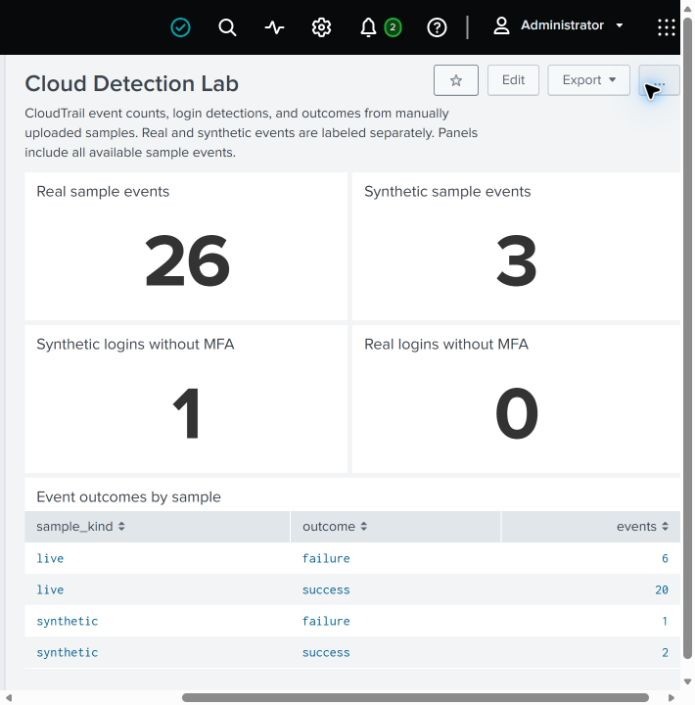
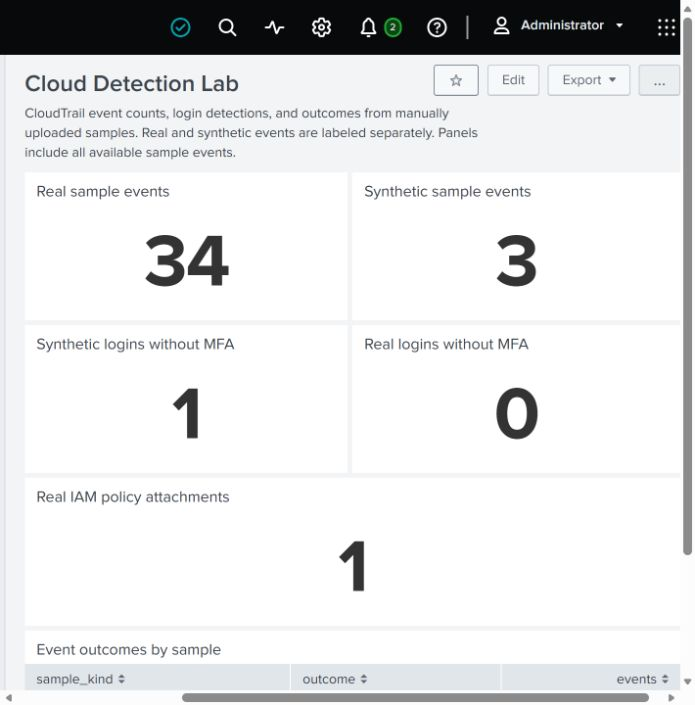
Add controlled IAM policy attachment detection and investigation

diff --git a/tests/test_iam_detection.py b/tests/test_iam_detection.py
@@ -1,0 +1,40 @@
+import copy
+from pathlib import Path
+import unittest
+
+import duckdb
+
+from cloud_detection.pipeline import detect, normalize
+
+
+class IAMDetectionTests(unittest.TestCase):
+    def setUp(self):
+        self.record = {
+            "eventID": "synthetic-policy-attachment", "eventTime": "2026-01-01T12:00:00Z",
+            "eventSource": "iam.amazonaws.com", "eventName": "AttachUserPolicy", "awsRegion": "us-east-1",
+            "userIdentity": {"type": "IAMUser", "accountId": "111122223333", "arn": "arn:aws:iam::111122223333:user/operator"},
+            "requestParameters": {"userName": "test-user", "policyArn": "arn:aws:iam::111122223333:policy/test-policy"},
+            "responseElements": None,
+        }
+
+    def test_null_response_on_successful_iam_write_is_detected(self):
+        finding = detect([normalize(self.record)])[0]
+        self.assertEqual(finding["rule_id"], "iam-managed-policy-attached")
+        self.assertEqual(finding["event_id"], self.record["eventID"])
+        self.assertEqual(finding["principal"], self.record["userIdentity"]["arn"])
+
+    def test_denied_reversal_and_unrelated_service_do_not_match(self):
+        for patch in ({"errorCode": "AccessDenied"}, {"eventName": "DetachUserPolicy"}, {"eventSource": "sts.amazonaws.com"}):
+            with self.subTest(patch=patch):
+                record = copy.deepcopy(self.record)
+                record.update(patch)
+                self.assertEqual(detect([normalize(record)]), [])
+
+    def test_sql_agrees_and_respects_partition_range(self):
+        conn = duckdb.connect()
+        conn.execute("CREATE TABLE security_events(event_id VARCHAR, event_time TIMESTAMP, account_id VARCHAR, principal VARCHAR, source_ip VARCHAR, region VARCHAR, event_date VARCHAR, event_source VARCHAR, event_name VARCHAR, outcome VARCHAR)")
+        conn.execute("INSERT INTO security_events VALUES ('attach', '2026-01-01 12:00:00', '111122223333', 'operator', '192.0.2.1', 'us-east-1', '2026-01-01', 'iam.amazonaws.com', 'AttachUserPolicy', 'success'), ('denied', '2026-01-01 12:00:00', '111122223333', 'operator', '192.0.2.1', 'us-east-1', '2026-01-01', 'iam.amazonaws.com', 'AttachUserPolicy', 'failure')")
+        sql = (Path(__file__).resolve().parents[1] / "sql/detections/iam_managed_policy_attached.sql").read_text()
+        self.assertEqual([row[0] for row in conn.execute(sql, ['2026-01-01', '2026-01-01', 'us-east-1']).fetchall()], ['attach'])
+        self.assertEqual(conn.execute(sql, ['2026-01-02', '2026-01-02', 'us-east-1']).fetchall(), [])
+        conn.close()

diff --git a/cloud_detection/pipeline.py b/cloud_detection/pipeline.py
@@ -73,7 +73,7 @@ def normalize(record: dict) -> dict:
 
 
 def detect(events: list[dict]) -> list[dict]:
-    return [
+    findings = [
         {
             "rule_id": "console-login-without-mfa",
             "event_id": event["event_id"],
@@ -88,3 +88,18 @@ def detect(events: list[dict]) -> list[dict]:
         and event["outcome"] == "success"
         and event["mfa_used"] is False
     ]
+    findings.extend(
+        {
+            "rule_id": "iam-managed-policy-attached",
+            "event_id": event["event_id"],
+            "event_time": event["event_time"],
+            "principal": event["principal"],
+            "source_ip": event["source_ip"],
+            "summary": "Managed IAM policy attached to a user; review the target and permissions in the source event.",
+        }
+        for event in events
+        if event["event_source"] == "iam.amazonaws.com"
+        and event["event_name"] == "AttachUserPolicy"
+        and event["outcome"] == "success"
+    )
+    return findings

diff --git a/README.md b/README.md
@@ -1,10 +1,10 @@
 # Cloud Detection Pipeline
 
-A cloud security data pipeline that collects AWS account activity with CloudTrail, transforms the logs into partitioned Parquet datasets, and detects successful console logins without MFA using SQL and Splunk.
+A cloud security data pipeline that collects AWS account activity with CloudTrail, transforms logs into partitioned Parquet datasets, and detects IAM policy attachments and successful console logins without MFA using SQL and Splunk.
 
 This portfolio project combines real AWS audit logs with labeled synthetic detection tests. Terraform defines the AWS infrastructure, Python validates and transforms the events, and Athena and Splunk query the same normalized data.
 
-The current implementation uses manual sample processing and uploads. CloudTrail collection runs in AWS, transformation runs locally, and Splunk runs on a local installation. A scheduled synthetic alert was verified and then disabled.
+The current implementation uses manual sample processing and uploads. CloudTrail collection runs in AWS, transformation runs locally, and Splunk runs on a local installation. Scheduled alerts were verified for a synthetic login and a real controlled IAM policy change, then disabled after evidence was saved.
 
 ## Tech Stack
 
@@ -71,19 +71,22 @@ The rule is implemented in [Python](cloud_detection/pipeline.py), [Athena SQL](s
 
 The Splunk test alert used an All time search and a temporary one-minute schedule. It added findings to Triggered Alerts without outbound notifications. The schedule fired and was disabled after verification. Its [settings and result](splunk/alerts/synthetic_no_mfa_test.md) are documented separately.
 
+A second rule flags successful `AttachUserPolicy` events from `iam.amazonaws.com`. It was checked against a real, reversible IAM change: a dedicated user received only permission to read the project bucket's location, with no password or access keys. The event passed through CloudTrail storage, Python, Parquet, Athena, and Splunk, where a scheduled alert fired. The permission, policy, and user were removed. This behavior maps to [MITRE ATT&CK T1098.003](https://attack.mitre.org/techniques/T1098/003/), but the exercise demonstrates a benign permission change rather than an actual compromise.
+
 ## Results and Dashboard
 
-Three real CloudTrail files contained 26 records. All 26 were converted to Parquet without rejected records. A harmless `GetBucketVersioning` action was located in the delivered logs to verify collection.
+The initial sample contained 26 records from three real CloudTrail files, including a harmless `GetBucketVersioning` verification action. Eight selected IAM scenario records expanded the dataset to 34 real events, all accepted without rejects.
 
 | Check | Real sample | Synthetic sample |
 | --- | --- | --- |
-| Events read by Athena | 26 | 3 |
-| Events shown in Splunk | 26 | 3 |
+| Events read by Athena | 34 | 3 |
+| Events shown in Splunk | 34 | 3 |
 | Successful logins without MFA | 0 | 1 |
+| Managed IAM policy attachments | 1 | 0 |
 
 ![Splunk dashboard with real and synthetic event counts and no-MFA findings](docs/images/splunk-dashboard.jpg)
 
-The single finding is synthetic. Zero findings in the small real sample is not a security assessment of the account. A controlled AWS security scenario and complete investigation have not yet been demonstrated.
+The no-MFA finding is synthetic; the IAM finding comes from the controlled AWS scenario. Zero real no-MFA findings is not a security assessment of the account. The [investigation report](docs/INVESTIGATION_IAM_POLICY.md) separates the observed behavior from the test's limitations.
 
 [Validation notes](docs/VALIDATION.md) and [aggregate evidence reports](docs/evidence/) record the checks. Raw account logs, credentials, Terraform state, and screenshots containing account details are excluded from the repository.
 
@@ -105,7 +108,7 @@ See [AWS deployment](docs/DEPLOYMENT.md), [Athena setup](docs/ATHENA.md), and [S
 
 ## Testing
 
-The suite contains **38 Python tests** and **7 Terraform mock tests**. Coverage includes invalid events, UTC boundaries, missing MFA values, duplicate conflicts, bounded input handling, output integrity, replay behavior, SQL agreement, and labeled Splunk exports.
+The suite contains **41 Python tests** and **9 Terraform mock tests**. Coverage includes invalid events, UTC boundaries, missing MFA values, duplicate conflicts, bounded input handling, output integrity, replay behavior, SQL agreement, labeled Splunk exports, and the narrow IAM scenario configuration.
 
 GitHub Actions runs the Python suite, synthetic example, ETL example, Terraform formatting, validation, and mock tests. Hosted [Python tests](https://github.com/echeekene/Cloud-detection-pipeline/actions/runs/40805508123) and [Terraform checks](https://github.com/echeekene/Cloud-detection-pipeline/actions/runs/40805508126) passed. Mock tests do not deploy resources or prove live AWS behavior; live checks are documented separately.
 
@@ -133,7 +136,7 @@ See [design decisions](docs/DECISIONS.md) for further context.
 ## Known Limitations
 
 - The deployed path has no automatic transformation trigger, continuous Splunk forwarding, or active security alert schedule.
-- The real sample contains only 26 records. Detection coverage is limited to one console-login rule.
+- The expanded real sample contains only 34 records. Detection coverage includes console logins without MFA and successful managed-policy attachments to IAM users. An attachment finding requires investigation; the rule does not determine whether the added permissions are excessive.
 - The first Splunk imports had incorrect time-zone interpretation. Those records remain stored in the lab index; searches explicitly select the corrected UTC source type.
 - Athena results and the dashboard reflect selected snapshots rather than all current account activity.
 - The deployment identity has broader existing IAM permissions. Project-scoped analytics permissions do not make the whole account least privilege.
@@ -155,6 +158,7 @@ examples/           Synthetic CloudTrail sample
 tests/              Python and SQL behavior tests
 infra/foundation/   CloudTrail and raw S3 storage
 infra/analytics/    Analytics storage, sample uploads, Glue, and Athena
+infra/scenario/     Temporary IAM test user, narrow policy, and attachment
 infra/access/       Analytics permission template
 scripts/            Snapshot preparation and Athena verification helpers
 sql/                Detection query and reference table definition
@@ -165,6 +169,6 @@ docs/               Setup, data model, decisions, limitations, and evidence
 
 ## Planned Extensions
 
-The next stage is one controlled AWS security scenario with detection, investigation, and reversal. Later work includes automatic log processing, an investigation report with a MITRE ATT&CK mapping, a protected read-only findings API, digest validation, and tested cleanup. AI summaries and a randomized simulator are optional stretch additions.
+The controlled IAM scenario has been executed and reversed, and its events are queryable in Athena and Splunk. The [investigation report](docs/INVESTIGATION_IAM_POLICY.md) records the verification status and limitations. Later work includes automatic log processing, a protected read-only findings API, digest validation, and tested cleanup of the main AWS infrastructure. AI summaries and a randomized simulator are optional stretch additions.
 
 The [roadmap](docs/ROADMAP.md) separates these planned extensions from the implemented system.

diff --git a/docs/INVESTIGATION_IAM_POLICY.md b/docs/INVESTIGATION_IAM_POLICY.md
@@ -1,0 +1,47 @@
+# Controlled IAM policy attachment
+
+## Scenario
+
+This exercise generates a real IAM permission-change event in the project account. A dedicated user receives a customer-managed policy that allows only `s3:GetBucketLocation` on the project's raw log bucket. The user has no password or access keys. The change is reversed by removing the attachment, policy, and user.
+
+The activity is a controlled simulation of a permission-change pattern. It does not demonstrate an account compromise, administrator access, or use of the added permission by an attacker.
+
+MITRE ATT&CK [Additional Cloud Roles T1098.003](https://attack.mitre.org/techniques/T1098/003/) specifically includes `AttachUserPolicy` as a way to add permissions to an AWS user. The mapping describes the behavior; it does not make every policy attachment malicious.
+
+## Execution and reversal
+
+The Terraform plan added three dedicated resources and changed no existing resources. Live read-back checks confirmed one expected policy attachment, zero access keys, and no login profile. Terraform then removed the attachment, policy, and user. Separate IAM reads confirmed that the user and policy no longer exist.
+
+The AWS session could not read Cost Explorer because it lacks `ce:GetCostAndUsage`. Actual charges remain unverified. The scenario did not deploy Lambda, API Gateway, or compute infrastructure. Existing audit logging and storage remain active.
+
+## Detection logic
+
+The Python, SQL, and SPL rules flag successful `AttachUserPolicy` events from `iam.amazonaws.com`. Denied or otherwise failed requests and `DetachUserPolicy` reversal events do not match.
+
+The normalized schema retains the actor, action, outcome, source IP, time, and event ID. It does not yet retain the target username or policy ARN. Investigators must pivot from the event ID to the original CloudTrail record and review `requestParameters.userName` and `requestParameters.policyArn`.
+
+This is a review rule for managed-policy attachments, not a determination that the policy is excessive or that the actor is unauthorized. Legitimate provisioning will also match. Inline policies, role attachments, group changes, and policy version changes are outside this rule's scope.
+
+## Investigation findings
+
+The attachment's actor matched the IAM identity used to run Terraform. Its target was the dedicated lab user, and its policy ARN matched the temporary bucket-location policy. The source record had no error code. The policy document granted only `s3:GetBucketLocation` on the project raw bucket, with no wildcard resource or administrator permissions.
+
+The same delivered sample contained one `DetachUserPolicy` event for the test attachment. Live IAM read-back separately confirmed removal of the user and policy. This supports the conclusion that the observed attachment was the expected controlled change and that it was reversed. The event alone would not establish whether an unfamiliar policy attachment was legitimate; that requires checking the actor, target, policy document, and surrounding activity.
+
+## Evidence and results
+
+Eight matching IAM records were selected from a delivered CloudTrail file. They included the attachment and detachment plus supporting policy and read-back activity. Original compressed files, hashes, selection receipts, and account-specific event records remain private. The selected sample is not a claim that every lifecycle event has been included.
+
+Python accepted all eight records and produced one IAM finding. The combined Parquet snapshot contains the earlier 26 records plus these eight, with no rejects. Athena read 34 real events and returned one attachment finding. Splunk indexed the eight additions, showed 34 total real events, and returned the same attachment event ID.
+
+A private scheduled IAM alert ran against the imported real events and created a Trigger History entry. Its only action was Add to Triggered Alerts, with a temporary one-minute schedule, All time search, and one-day duplicate suppression. It is now disabled; Splunk removed its trigger history and related search results, while saved screenshots, the definition, dashboard, and imported records remain. No outbound notification was added.
+
+This verifies a manually transported, recorded AWS permission change and a scheduled alert on that data. It does not measure continuous detection latency or demonstrate automatic delivery to Splunk. The earlier synthetic no-MFA test remains a separate check.
+
+The [sanitized evidence report](evidence/iam-scenario-verification.json) contains counts and checks without raw account identifiers. The dashboard includes a real IAM attachment panel.
+
+## Reproducing the controlled change
+
+Review the account ID and exact policy before applying `infra/scenario`. The module defines only the dedicated user, one narrow policy, and its attachment. It creates no credentials. Keep its state private and separate from the foundation and analytics modules.
+
+After collecting the required read-back evidence, destroy only the scenario module. Confirm that the test user and policy are absent. Do not destroy the logging foundation as part of this scenario.

diff --git a/docs/VALIDATION.md b/docs/VALIDATION.md
@@ -85,3 +85,13 @@ The [Athena evidence report](evidence/athena-verification.json) records the quer
 The full Python suite passes **38 tests**. New tests cover the labeled Splunk export, boolean/null handling, original event times, protection against overwriting existing files, and dashboard XML parsing. The prepared exports contain **3 synthetic events** and **26 real events**.
 
 Splunk indexed the samples locally. The private Cloud Detection Lab dashboard shows 26 real events, 3 synthetic events, 1 synthetic no-MFA finding, and 0 real no-MFA findings. These agree with Athena. We corrected a time-zone mistake and restricted the searches to the corrected source type; the first imports remain in the lab index as troubleshooting history. A private scheduled synthetic alert fired and was disabled after verification. Trigger evidence is saved privately. No collector token or outbound notification was created, and this step added no AWS resources or queries. See [the Splunk notes](SPLUNK.md).
+
+## Controlled IAM scenario
+
+The separate scenario module created a temporary user, a policy allowing only the project bucket's location to be read, and their attachment. The user had no access keys or login profile. The three resources were removed, and IAM read-back confirmed the user and policy were absent.
+
+Eight selected IAM records from a delivered CloudTrail file were processed without rejects. The source event confirmed the actor, target user, and policy scope against the execution receipts. Python, Athena, and Splunk each identified one successful managed-policy attachment. The expanded real sample contains 34 events; the synthetic sample remains three events with one no-MFA finding.
+
+The real IAM scheduled alert fired, its original screenshot was saved privately, and the alert was disabled. The dashboard now includes one real IAM attachment finding. This remains a manual processing and upload path; it is not a continuous detection-latency measurement.
+
+The Python suite now passes 41 tests, and the new scenario module adds two mock tests to the existing seven. See the [investigation](INVESTIGATION_IAM_POLICY.md) and [sanitized evidence](evidence/iam-scenario-verification.json). Cost Explorer access was denied, so actual project charges remain unverified.

diff --git a/docs/ROADMAP.md b/docs/ROADMAP.md
@@ -11,7 +11,7 @@ We are building this to learn cloud security and data processing. This list help
 | Clean the data | Read compressed files, handle bad records, write Parquet | Working locally |
 | Query in AWS | Put the cleaned files in S3 and try Athena | Working; 26 real rows, 3 synthetic rows, and the expected test finding verified |
 | Splunk | Send events to a SIEM and try an alert/dashboard | Sample imports, searches, dashboard, and scheduled synthetic alert checked; test alert now disabled |
-| Simulations | Generate controlled test activity and see what gets caught | Still to build |
+| Simulations | Generate controlled test activity and see what gets caught | Real IAM policy change detected in Python, Athena, and Splunk; alert verified and disabled; temporary resources removed |
 | Automation | Process newly delivered logs with an S3-triggered Lambda | Planned; processing is still manual |
 | Findings API | Read findings and events through a protected API | Planned; no endpoint deployed |
 | AI | Try explaining a finding in plain English | Later; scope still open |
@@ -38,7 +38,7 @@ The Motorsport sample is a reference for explaining the architecture, choices, l
 ## Next piece to review together
 
 1. Completed: publish the existing repository and verify hosted Python and Terraform workflows.
-2. Run one controlled AWS security scenario with detection, investigation, and reversal using a dedicated test identity.
+2. Completed: controlled IAM policy attachment, investigation, scheduled alert verification, and resource reversal using a dedicated test identity.
 3. Automate processing of new CloudTrail logs with an S3-triggered Lambda, including failure and replay handling.
 4. Write the investigation report, map the activity to a relevant MITRE ATT&CK technique, and update the architecture diagram.
 5. Add a protected read-only findings API with input validation, parameterized queries, timeouts, endpoint tests, and an OpenAPI specification.

diff --git a/docs/SPLUNK.md b/docs/SPLUNK.md
@@ -90,3 +90,9 @@ The existing Splunk trial was close to ending when checked. We did not change th
 - [Splunk configuration reference](https://help.splunk.com/en/splunk-enterprise/administer/admin-manual/10.4/configuration-file-reference/10.4.4-configuration-file-reference/props.conf)
 
 HTTP Event Collector is a possible later step. The first manual upload helps us check the event format before adding a token and a network endpoint.
+
+## Real IAM scenario
+
+Eight selected records from the real controlled IAM scenario were imported using the corrected UTC source type. The dashboard now shows 34 real events and one real IAM policy attachment, alongside the unchanged three synthetic events and one synthetic no-MFA finding. The IAM SPL search returned the same attachment event identified in Athena and Python.
+
+A separate private scheduled IAM alert fired and was disabled after evidence was saved. Its only action was Add to Triggered Alerts. See the [investigation](INVESTIGATION_IAM_POLICY.md) and [alert settings](../splunk/alerts/iam_policy_attachment_test.md). The earlier 26-event results describe the initial baseline, rather than the expanded sample.

diff --git a/docs/ATHENA.md b/docs/ATHENA.md
@@ -106,3 +106,7 @@ The destroy removes the lab tables, partitions, workgroup, sample objects, and b
 After attaching the policy, IAM's simulator showed the new actions as allowed, but our existing temporary session still received access-denied errors. Refreshing the developer login fixed access for this session. We checked again before deploying, rather than adding a broader policy.
 
 The console also started on the default `primary` workgroup. We switched to `cloud-detection-queries`, where our policy and query limits apply.
+
+## Expanded IAM sample
+
+The controlled IAM scenario added eight selected real records to the original 26, giving 34 real rows across two UTC partitions. The synthetic table still contains three rows. The IAM attachment SQL returned one finding, while the no-MFA checks stayed at zero real findings and one synthetic finding. Storage protections and the workgroup query limit stayed unchanged. See the [scenario investigation](INVESTIGATION_IAM_POLICY.md) and its separate evidence report for the new result; the earlier 26-row evidence remains the baseline.

diff --git a/splunk/alerts/iam_policy_attachment_test.md b/splunk/alerts/iam_policy_attachment_test.md
@@ -1,0 +1,7 @@
+# Controlled IAM policy attachment alert
+
+The private alert named Cloud Detection - IAM Policy Attachment Test uses `splunk/searches/iam_managed_policy_attached.spl` over All time. It triggers once per search run when the result count is greater than zero and adds an internal Triggered Alerts record with Medium severity. The temporary verification schedule was every minute, with duplicate triggering suppressed for one day.
+
+The schedule ran against imported records from the real controlled AWS scenario and created a Trigger History entry. An original screenshot is saved privately outside Git. The alert is now disabled; trigger history and related search results were removed by Splunk. The alert definition, imported events, dashboard, and saved screenshots remain.
+
+No email, webhook, or external notification action was added. The All time range was used to find a recorded scenario, not to implement continuous monitoring. The existing Splunk trial limits future use of scheduled searches.
